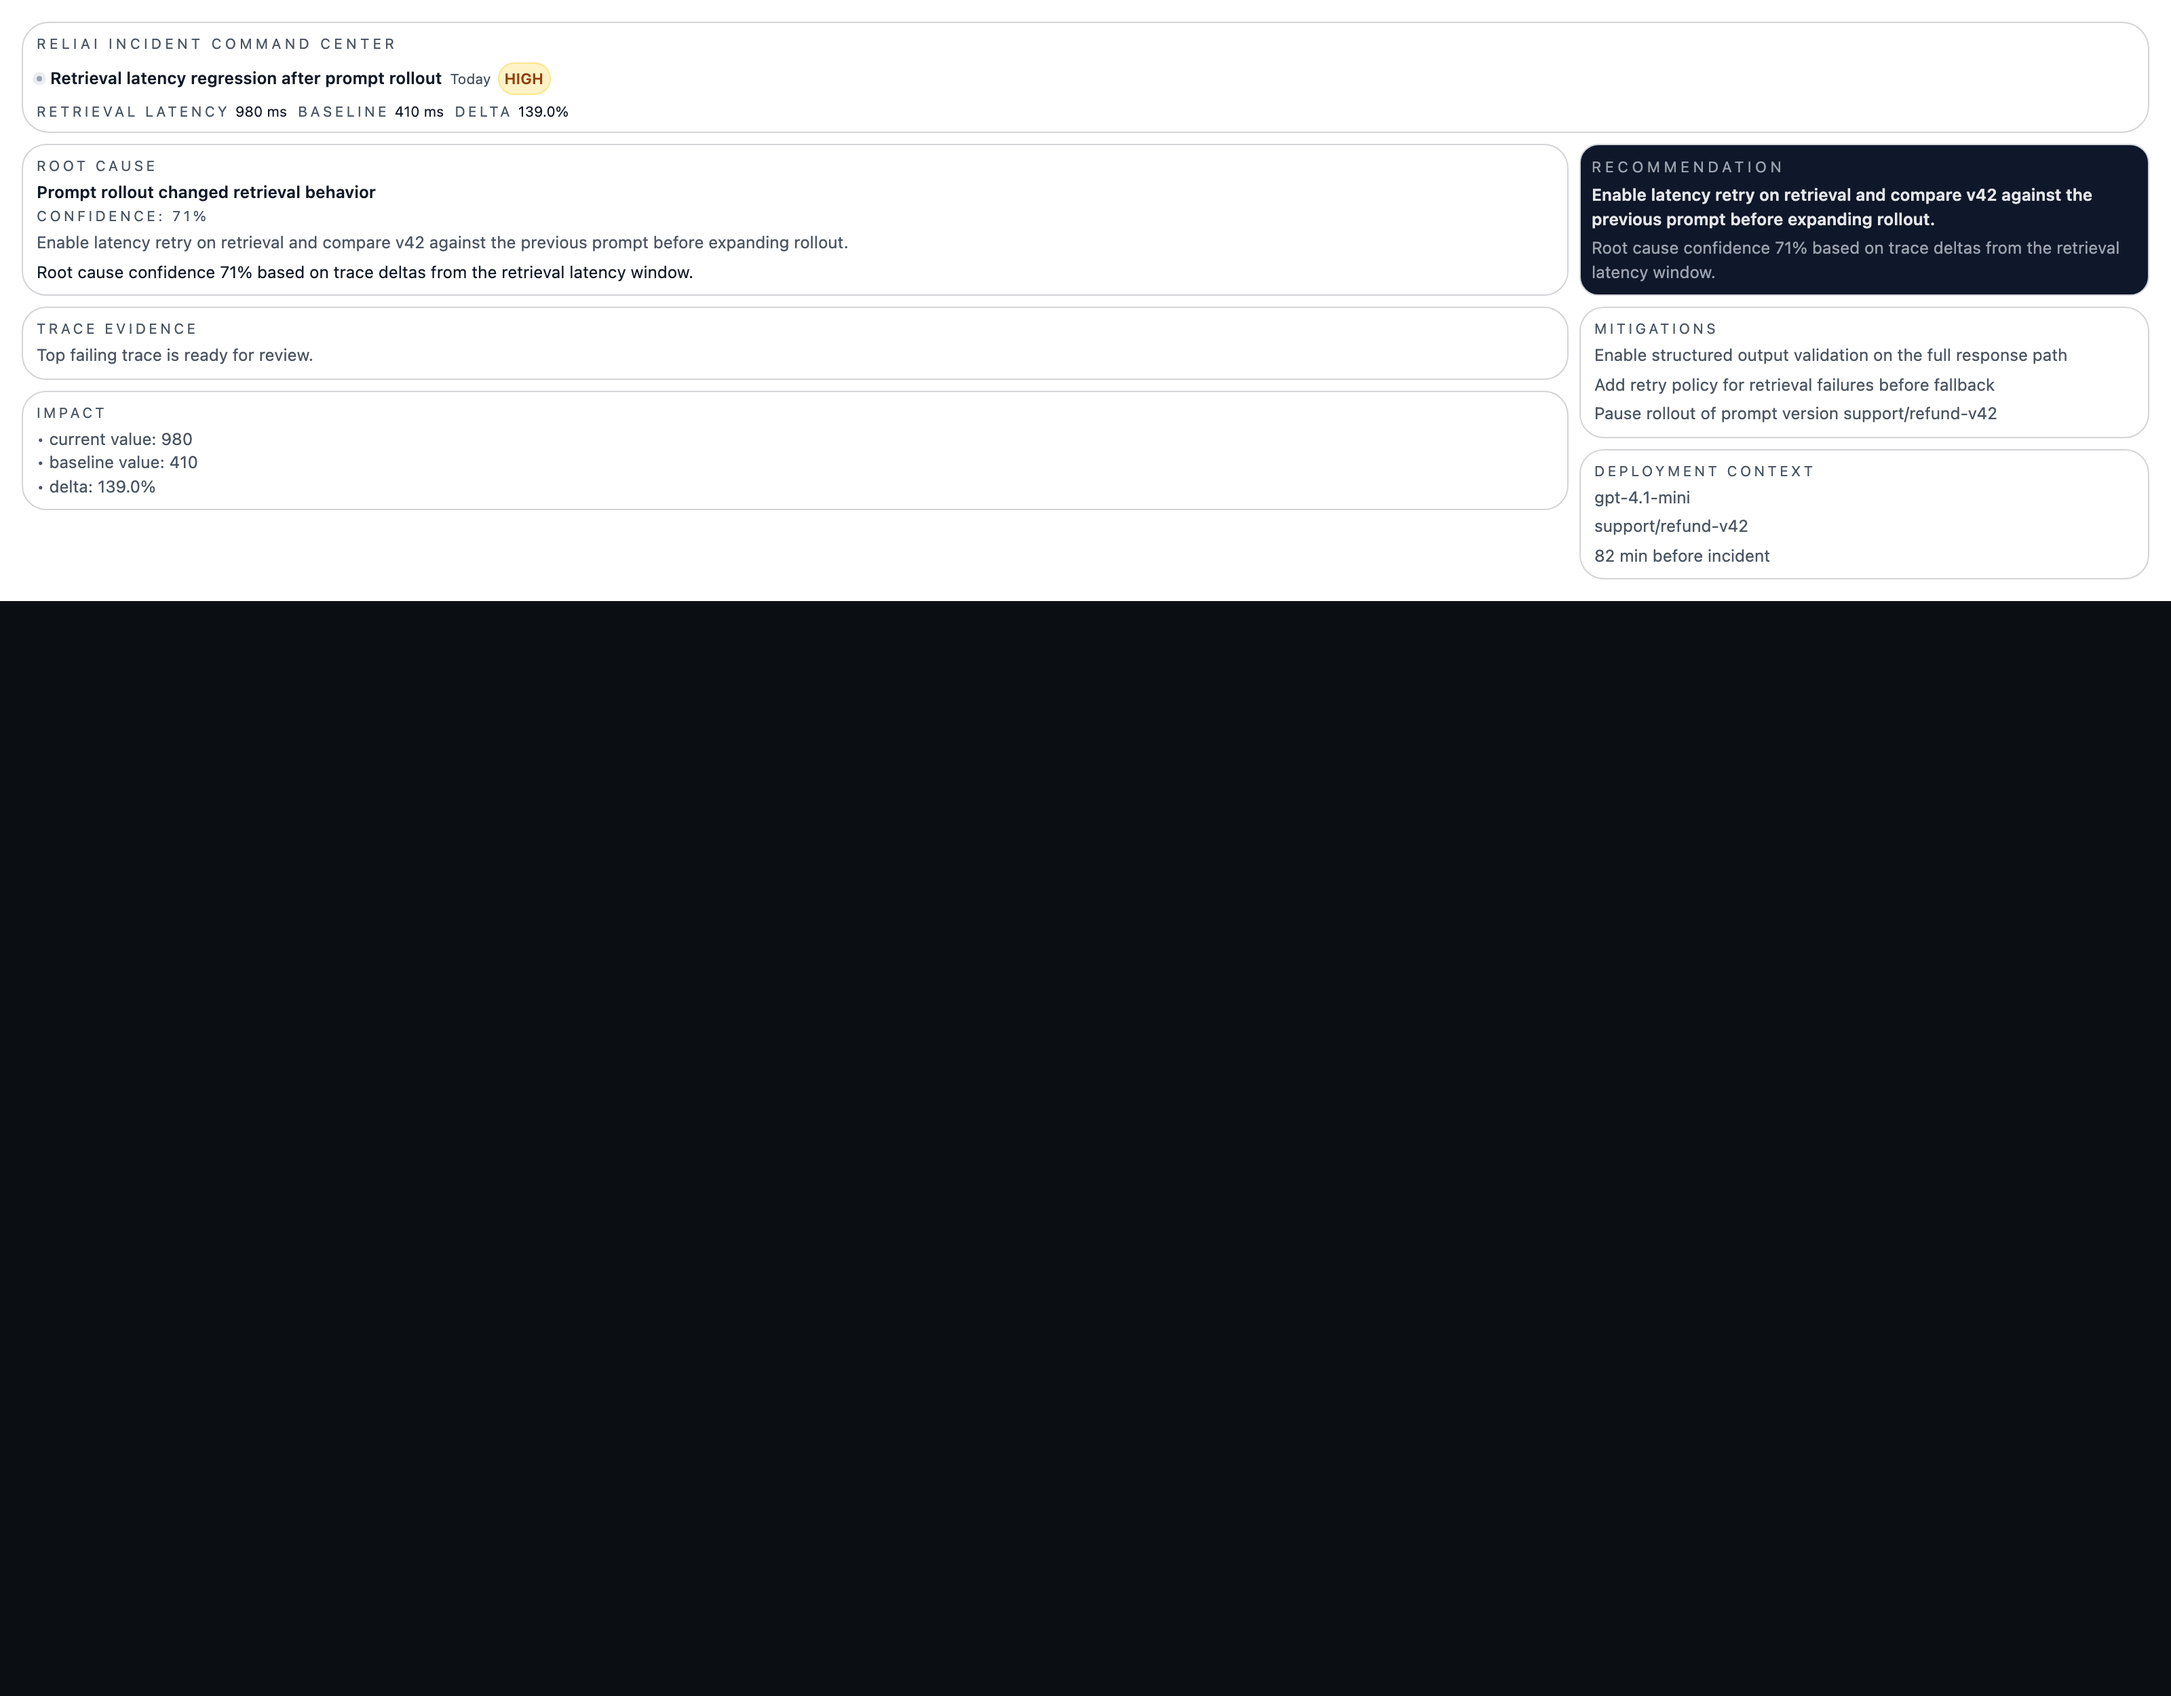
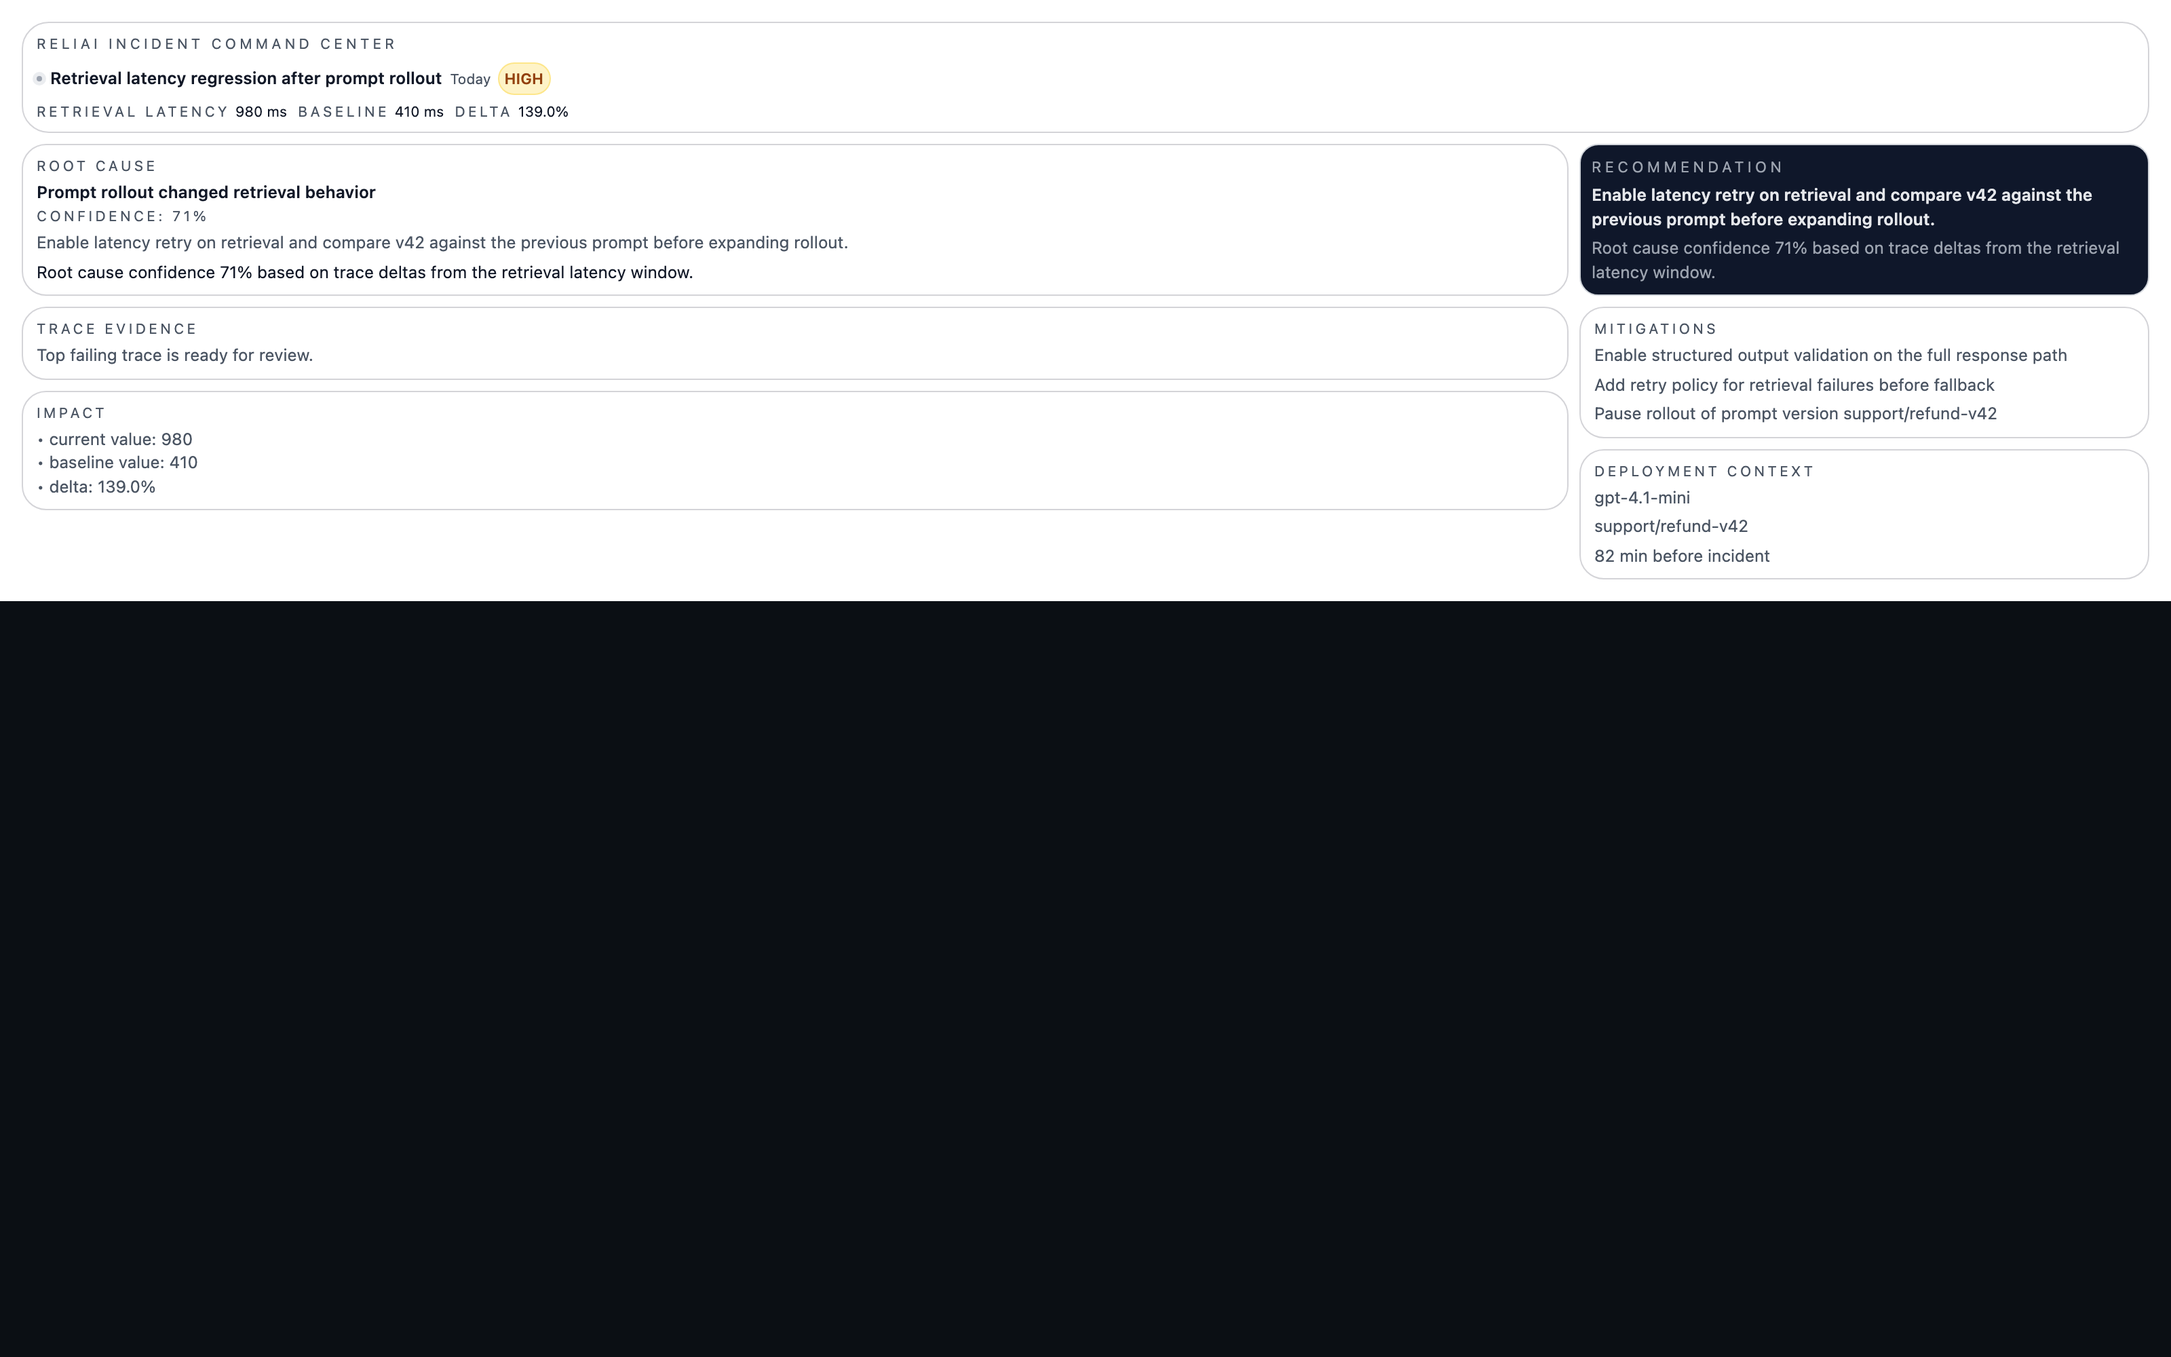
fix: stabilize visual tests and screenshot generation

Changed region(s): [[0.0, 0.0, 1.0, 0.465]]

diff --git a/tests/visual/trace-wow.spec.ts b/tests/visual/trace-wow.spec.ts
@@ -53,21 +53,35 @@ test("trace wow flow auto-selects retrieval failure trace", async ({ page }) => 
   }
 
   let apiKey = "reliai_demo_key";
+  let projectId: string | null = null;
   if (sessionToken && organizationId) {
-    const keyResponse = await page.request.post("http://127.0.0.1:8000/api/v1/api-keys", {
+    const projectsResponse = await page.request.get("http://127.0.0.1:8000/api/v1/projects?limit=1", {
       headers: {
         Authorization: `Bearer ${sessionToken}`,
-        "Content-Type": "application/json",
-      },
-      data: {
-        organization_id: organizationId,
-        name: `wow-trace-${traceId}`,
       },
     });
-    if (keyResponse.ok()) {
-      const keyJson = (await keyResponse.json()) as { api_key?: string };
-      if (keyJson.api_key) {
-        apiKey = keyJson.api_key;
+    if (projectsResponse.ok()) {
+      const projectsJson = (await projectsResponse.json()) as { items?: Array<{ id: string }> };
+      projectId = projectsJson.items?.[0]?.id ?? null;
+    }
+    if (projectId) {
+      const keyResponse = await page.request.post(
+        `http://127.0.0.1:8000/api/v1/projects/${projectId}/api-keys`,
+        {
+          headers: {
+            Authorization: `Bearer ${sessionToken}`,
+            "Content-Type": "application/json",
+          },
+          data: {
+            label: `wow-trace-${traceId}`,
+          },
+        }
+      );
+      if (keyResponse.ok()) {
+        const keyJson = (await keyResponse.json()) as { api_key?: string };
+        if (keyJson.api_key) {
+          apiKey = keyJson.api_key;
+        }
       }
     }
   }
@@ -148,14 +162,20 @@ test("trace wow flow auto-selects retrieval failure trace", async ({ page }) => 
   let wowTraceId: string | null = null;
   let wowTraceGraphId: string | null = null;
   if (sessionToken) {
-    const traceListResponse = await page.request.get("http://127.0.0.1:8000/api/v1/traces?limit=1", {
-      headers: {
-        Authorization: `Bearer ${sessionToken}`,
-      },
-    });
-    if (traceListResponse.ok()) {
-      const traceListJson = (await traceListResponse.json()) as { items?: Array<{ id: string }> };
-      wowTraceId = traceListJson.items?.[0]?.id ?? null;
+    const deadline = Date.now() + 30000;
+    while (Date.now() < deadline && !wowTraceId) {
+      const traceListResponse = await page.request.get("http://127.0.0.1:8000/api/v1/traces?limit=1", {
+        headers: {
+          Authorization: `Bearer ${sessionToken}`,
+        },
+      });
+      if (traceListResponse.ok()) {
+        const traceListJson = (await traceListResponse.json()) as { items?: Array<{ id: string }> };
+        wowTraceId = traceListJson.items?.[0]?.id ?? null;
+      }
+      if (!wowTraceId) {
+        await new Promise((resolve) => setTimeout(resolve, 1000));
+      }
     }
     if (wowTraceId) {
       const traceDetailResponse = await page.request.get(
@@ -173,10 +193,14 @@ test("trace wow flow auto-selects retrieval failure trace", async ({ page }) => 
     }
   }
 
-  await page.goto("/traces?autoselect=0", { waitUntil: "networkidle" });
+  const bannerUrl = wowTraceId
+    ? `/traces?autoselect=0&wow_trace_id=${wowTraceId}`
+    : "/traces?autoselect=0";
+  await page.goto(bannerUrl, { waitUntil: "networkidle" });
   await expect(page.getByTestId("wow-trace-banner")).toBeVisible({ timeout: 15000 });
 
-  await page.goto("/traces", { waitUntil: "networkidle" });
+  const autoSelectUrl = wowTraceId ? `/traces?wow_trace_id=${wowTraceId}` : "/traces";
+  await page.goto(autoSelectUrl, { waitUntil: "networkidle" });
   await expect(page).toHaveURL(/\/traces\/.+/);
 
   const targetGraphUrl = wowTraceGraphId
@@ -188,6 +212,6 @@ test("trace wow flow auto-selects retrieval failure trace", async ({ page }) => 
 
   await expect(page.getByText("retrieval.request").first()).toBeVisible({ timeout: 15000 });
   await expect(page.getByText("retrieval.attempt").nth(1)).toBeVisible({ timeout: 15000 });
-  await expect(page.getByText("Retrieval Failure").first()).toBeVisible({ timeout: 15000 });
+  await expect(page.getByText("Retrieval failed").first()).toBeVisible({ timeout: 15000 });
   await expect(page.getByText("Recovered after retry").first()).toBeVisible({ timeout: 15000 });
 });

diff --git a/scripts/generate_marketing_screenshots.ts b/scripts/generate_marketing_screenshots.ts
@@ -11,7 +11,7 @@ const outputDir = path.join(root, "apps/web/public/screenshots");
 const baseUrl = "http://127.0.0.1:3000";
 const viewport = {
   width: 1600,
-  height: 1250,
+  height: 1000,
 } as const;
 
 const shots = [
@@ -20,21 +20,20 @@ const shots = [
     file: "control-panel.png",
     signals: ["text=Reliability score", "text=Active incidents", "text=Operator guidance"],
     readySelector: "[data-control-panel-ready], [data-tour-id='metric-reliability-score']",
-    elementSelector: "[data-control-panel]",
     scrollY: 0,
   },
   {
     route: "/marketing/screenshot/incident",
     file: "incident.png",
-    signals: ["text=Likely root cause", "text=Recommended mitigation"],
-    readySelector: "text=Recommended mitigation",
+    signals: ["text=Root cause", "text=Impact"],
+    readySelector: "text=Impact",
     scrollY: 0,
   },
   {
     route: "/marketing/screenshot/trace-graph",
     file: "trace-graph.png",
-    signals: ["text=Trace Analysis", "text=Slowest step", "text=Largest token consumer"],
-    readySelector: "text=Trace Analysis",
+    signals: ["text=Execution graph", "text=Execution breakdown", "text=Slowest span"],
+    readySelector: "text=Execution graph",
     scrollY: 0,
   },
 ];

diff --git a/apps/web/app/(marketing)/page.tsx b/apps/web/app/(marketing)/page.tsx
@@ -103,11 +103,14 @@ const failures = [
 
 export default function MarketingHomePage() {
   return (
-    <main className="bg-[#f7f8fa] text-ink" data-marketing-container>
+    <main className="bg-[#f7f8fa] text-ink">
 
       {/* ── Hero ─────────────────────────────────────────────────────────── */}
       <section className={`border-b border-zinc-200 ${marketingSectionLargeClass}`}>
-        <div className={`${marketingContainerClass} grid gap-12 pb-16 pt-24 lg:grid-cols-[minmax(0,1.05fr)_minmax(0,0.95fr)] lg:items-start`}>
+        <div
+          className={`${marketingContainerClass} grid gap-12 pb-16 pt-24 lg:grid-cols-[minmax(0,1.05fr)_minmax(0,0.95fr)] lg:items-start`}
+          data-marketing-container
+        >
 
           {/* Left column */}
           <div>

diff --git a/scripts/generate_screenshots.ts b/scripts/generate_screenshots.ts
@@ -11,7 +11,7 @@ const outputDir = path.join(root, "apps/web/public/screenshots");
 const baseUrl = "http://127.0.0.1:3000";
 const viewport = {
   width: 1600,
-  height: 1250,
+  height: 1000,
 } as const;
 
 const shots = [
@@ -20,7 +20,6 @@ const shots = [
     file: "control-panel.png",
     signals: ["text=Reliability score", "text=Active incidents", "text=Operator guidance"],
     readySelector: "[data-control-panel-ready], [data-tour-id='metric-reliability-score']",
-    elementSelector: "[data-control-panel]",
     scrollY: 0,
   },
   {

diff --git a/apps/web/app/(app)/traces/page.tsx b/apps/web/app/(app)/traces/page.tsx
@@ -69,7 +69,8 @@ export default async function TracesPage({
   };
 
   const traces = await listTraces(filters).catch(() => ({ items: [], next_cursor: null }));
-  const bestTraceId = traces.items[0]?.id;
+  const forcedWowTraceId = readSearchParam(params.wow_trace_id);
+  const bestTraceId = forcedWowTraceId ?? traces.items[0]?.id;
   const disableAutoSelect = readSearchParam(params.autoselect) === "0";
   const hasCursor = Boolean(filters.cursor);
   const hasFilters =
